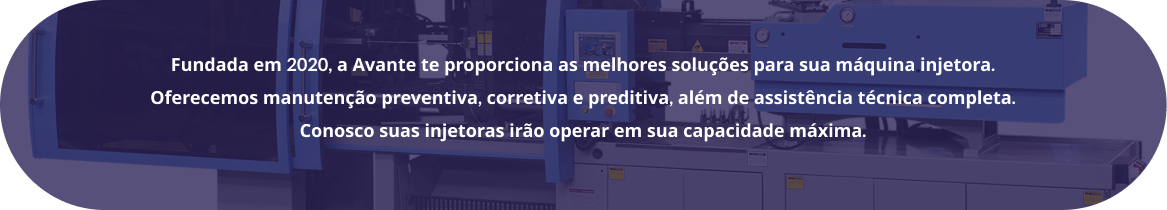
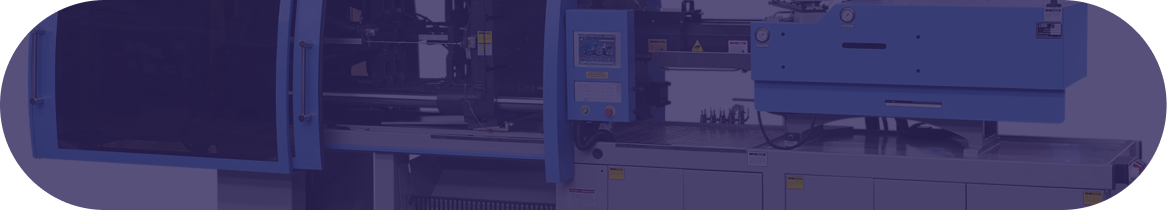
feat: finalização do css #30

Changed region(s): [[0.1234, 0.4286, 0.8638, 0.5143], [0.1234, 0.2571, 0.8638, 0.3429], [0.2468, 0.5714, 0.7404, 0.6571]]

diff --git a/src/components/HeaderClientes.vue b/src/components/HeaderClientes.vue
@@ -39,8 +39,7 @@
     </div>
 
     <div>
-      <img class="group" src="../assets/image (1).png" alt="group1">
-        <div class="camada-azul"></div>
+      <img class="group" src="../assets/Group 1.png" alt="group1">
       <p class="text-group">Fundada em 2020, a Avante te proporciona as melhores soluções para sua máquina injetora.
         Oferecemos manutenção preventiva, corretiva e preditiva, além de assistência técnica completa. Conosco suas
         injetoras irão operar em sua capacidade máxima.</p>
@@ -151,7 +150,6 @@ header {
   margin-left: 12%;
   position: relative;
   display: inline-block;
-  background-color: rgba(3, 3, 63, 0.5); /* Fundo azul com 50% de opacidade */
 }
 /* .camada-azul{
   display: flex;
@@ -163,20 +161,16 @@ header {
 
 .text-group {
   position: absolute;
-  width: 880.17px;
-  height: 112.57px;
-  left: 279.87px;
-  top: 889px;
-
   font-family: 'Kantumruy';
   font-style: normal;
-  font-weight: 700;
-  font-size: 18px;
-  line-height: 33px;
   text-align: center;
-
   color: #FFFFFF;
-
+  width: 65%;
+  left: 22%;
+  top: 137%;
+  font-weight: 800;
+  font-size: 18px;
+  line-height: 170%;
 
 }
 </style>
